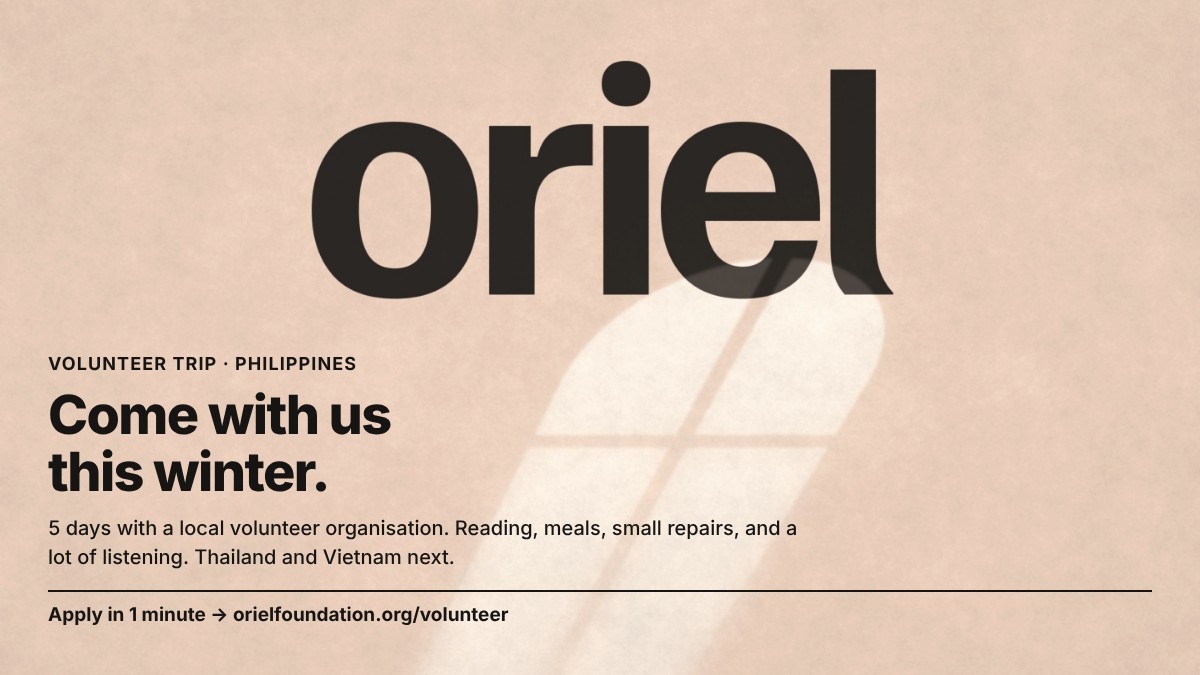
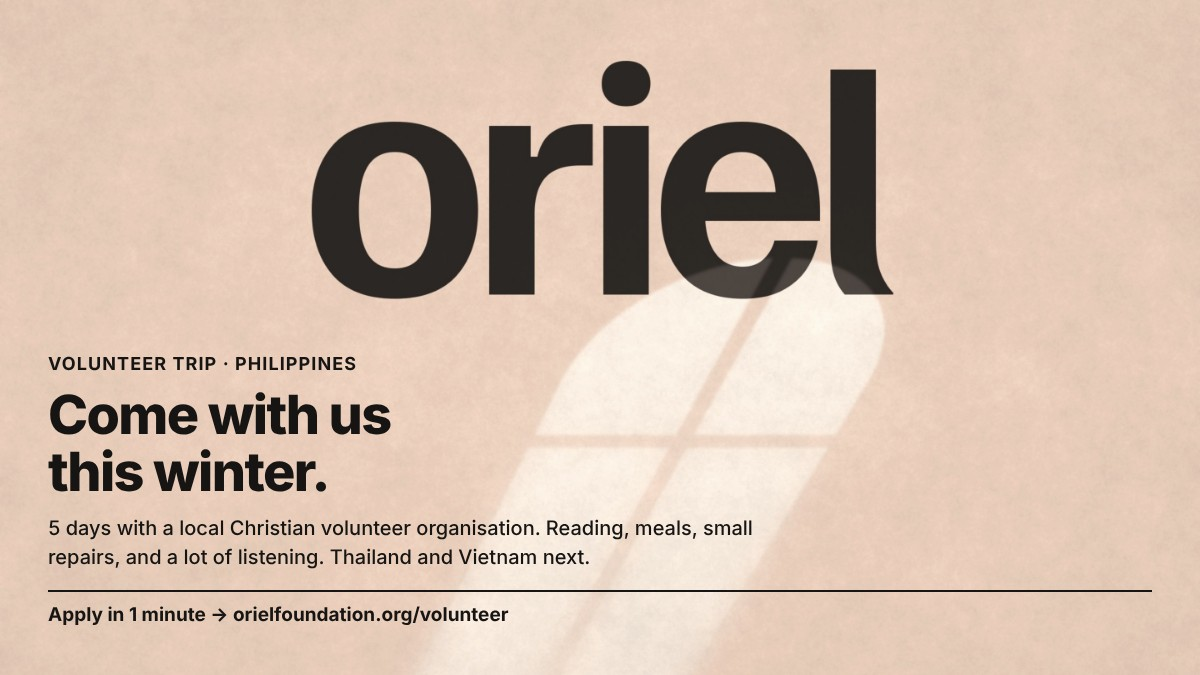
기독교 파트너 원칙: 사이트·홍보 카드 문구 '현지 기독교 봉사 단체'로, 파트너 후보 목록 추가
Claude-Session: https://claude.ai/code/session_01CHRf4J1BbDopD2AToZTnW2

Changed region(s): [[0.0308, 0.7778, 0.6783, 0.84]]

diff --git a/marketing/sns-kit/make.py b/marketing/sns-kit/make.py
@@ -10,8 +10,8 @@ T = {
   "en": ("FOLLOW ORIEL", "Watch a small window<br>open, step by step.", "Every step of building Oriel, shared in public.", "orielfoundation.org/follow"),
   "ko": ("오리엘 소식 받기", "작은 창이 열리는 과정,<br>함께 지켜봐 주세요.", "재단을 만드는 모든 걸음을 공개로 나눕니다.", "orielfoundation.org/ko/follow")},
  "volunteer": {
-  "en": ("VOLUNTEER TRIP · PHILIPPINES", "Come with us<br>this winter.", "5 days with a local volunteer organisation. Reading, meals, small repairs, and a lot of listening. Thailand and Vietnam next.", "Apply in 1 minute → orielfoundation.org/volunteer"),
-  "ko": ("봉사 여행 · 필리핀", "이번 겨울,<br>같이 가요.", "현지 봉사 단체와 함께하는 5일. 책 읽기, 식사 나눔, 작은 수리, 그리고 많이 듣기. 다음은 태국·베트남.", "1분 신청 → orielfoundation.org/ko/volunteer")},
+  "en": ("VOLUNTEER TRIP · PHILIPPINES", "Come with us<br>this winter.", "5 days with a local Christian volunteer organisation. Reading, meals, small repairs, and a lot of listening. Thailand and Vietnam next.", "Apply in 1 minute → orielfoundation.org/volunteer"),
+  "ko": ("봉사 여행 · 필리핀", "이번 겨울,<br>같이 가요.", "현지 기독교 봉사 단체와 함께하는 5일. 책 읽기, 식사 나눔, 작은 수리, 그리고 많이 듣기. 다음은 태국·베트남.", "1분 신청 → orielfoundation.org/ko/volunteer")},
 }
 def html(kind, lang, w, h):
     kick, head, sub, foot = T[kind][lang]

diff --git a/ops/partners/christian-shortlist.md b/ops/partners/christian-shortlist.md
@@ -1,0 +1,29 @@
+# 기독교 파트너 후보 (2026-11-24 조사)
+
+원칙(세준 11/24): **기독교 정신으로 세운 단체하고만 협력한다.** 보육원 방문 없음, 서면 아동보호 정책이 있는 곳만.
+Yellow Boat of Hope = 일반(비종교) 단체 → 협력 대상 아님, 배우는 관계만.
+
+## 필리핀 (이번 겨울 5일 봉사 후보)
+| 단체 | 기독교 근거 | 우리와 맞는 점 | 확인할 것 |
+|---|---|---|---|
+| Habitat for Humanity Philippines (habitat.org.ph) | 초교파 기독교 주거 사역, 1988년 설립 | 해외 봉사팀 프로그램(Global Village) 운영, 집·교실 짓기 = 오리엘 'Build' | 필리핀 Global Village 일정·팀 비용·최소 인원 |
+| YWAM Philippines (ywamph.com/outreach-teams) | 초교파 선교 단체 | 단기 아웃리치 팀을 받음, 어린이 사역·지역 봉사 | 5일 일정 가능 여부, 아동보호 정책 |
+| Church of the Nazarene Philippines (Asia-Pacific Nazarene 봉사 기회) | 교단 | 단기팀이 현지 교회와 성경학교·캠프·건축 | 일정·지역 |
+| ACTION International – Pag-Asa School (Manila) | 선교 단체 | 연중 팀 방문 가능 | '고아' 표현 있음 → 아동보호·방문 방식 꼭 확인 |
+| Compassion Philippines | 교회 파트너 300곳+ 아동발달센터 | 교회 중심, 아동보호 엄격 | 일반 봉사팀은 거의 안 받음 → 후원자 방문·교회 연결 정도 |
+| World Team Philippines | 선교 단체, 아동안전 무관용 정책 | 아동보호 체계 | 주로 장기·인턴, 5일 팀은 어려울 수 있음 |
+
+## 태국 (다음)
+- Concordia Welfare & Education Foundation – Thailand (CWEFT): 1988년 설립, 빈곤 아동 교육
+- Operation Blessing Foundation (Thai): 2001년 설립, 교회와 가정 연결
+- Siam-Care Foundation: 기독교 단체에서 시작
+- World Vision Thailand: 기독교 신앙 기반(대형)
+
+## 베트남 (다음)
+- L.O.V.E. (Love of Vietnam Expressed): 기독교 구호 단체, 다낭에서 단기 선교팀 받음, 아이들 학비·보충수업 지원
+- Samaritan's Purse Vietnam: 기독교 구호(교육·보호 포함, 대형)
+- 참고: 베트남은 종교 활동 제약이 있어 '봉사'와 '전도' 활동을 분리해 현지 법 확인 필요
+
+## 다음 단계
+1. 필리핀 1순위: Habitat Philippines, YWAM Philippines에 문의 메일(오리온 담당, 세준 확인 후 발송)
+2. 질문: 5일 팀 가능 여부, 일정, 1인 비용, 아동보호 정책 문서, 비기독교인 봉사자 참여 가능 여부
